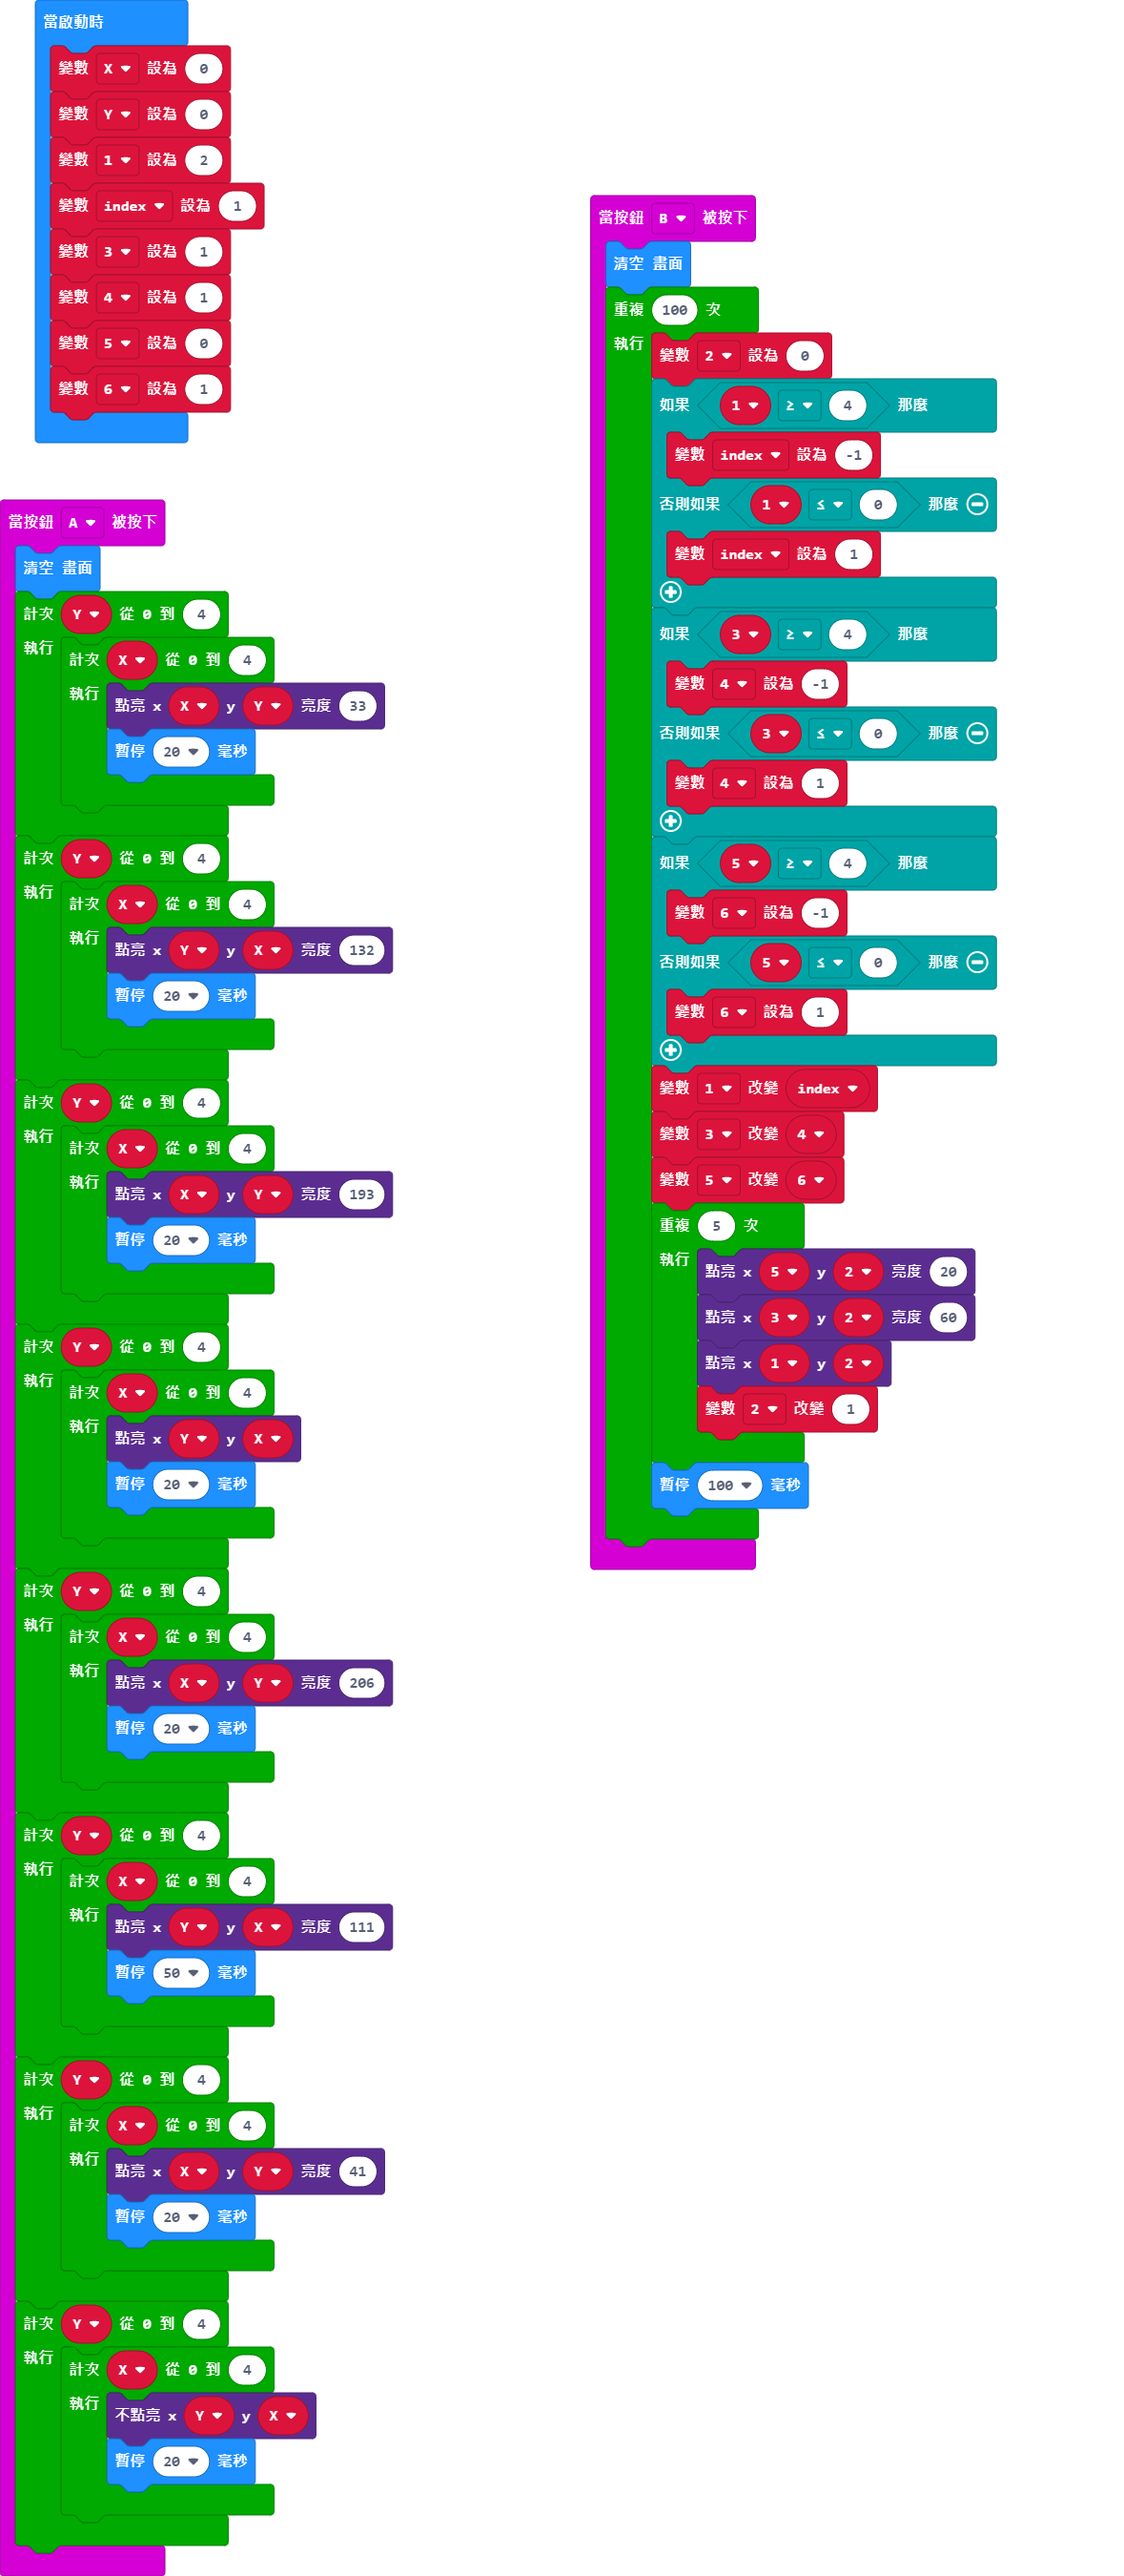
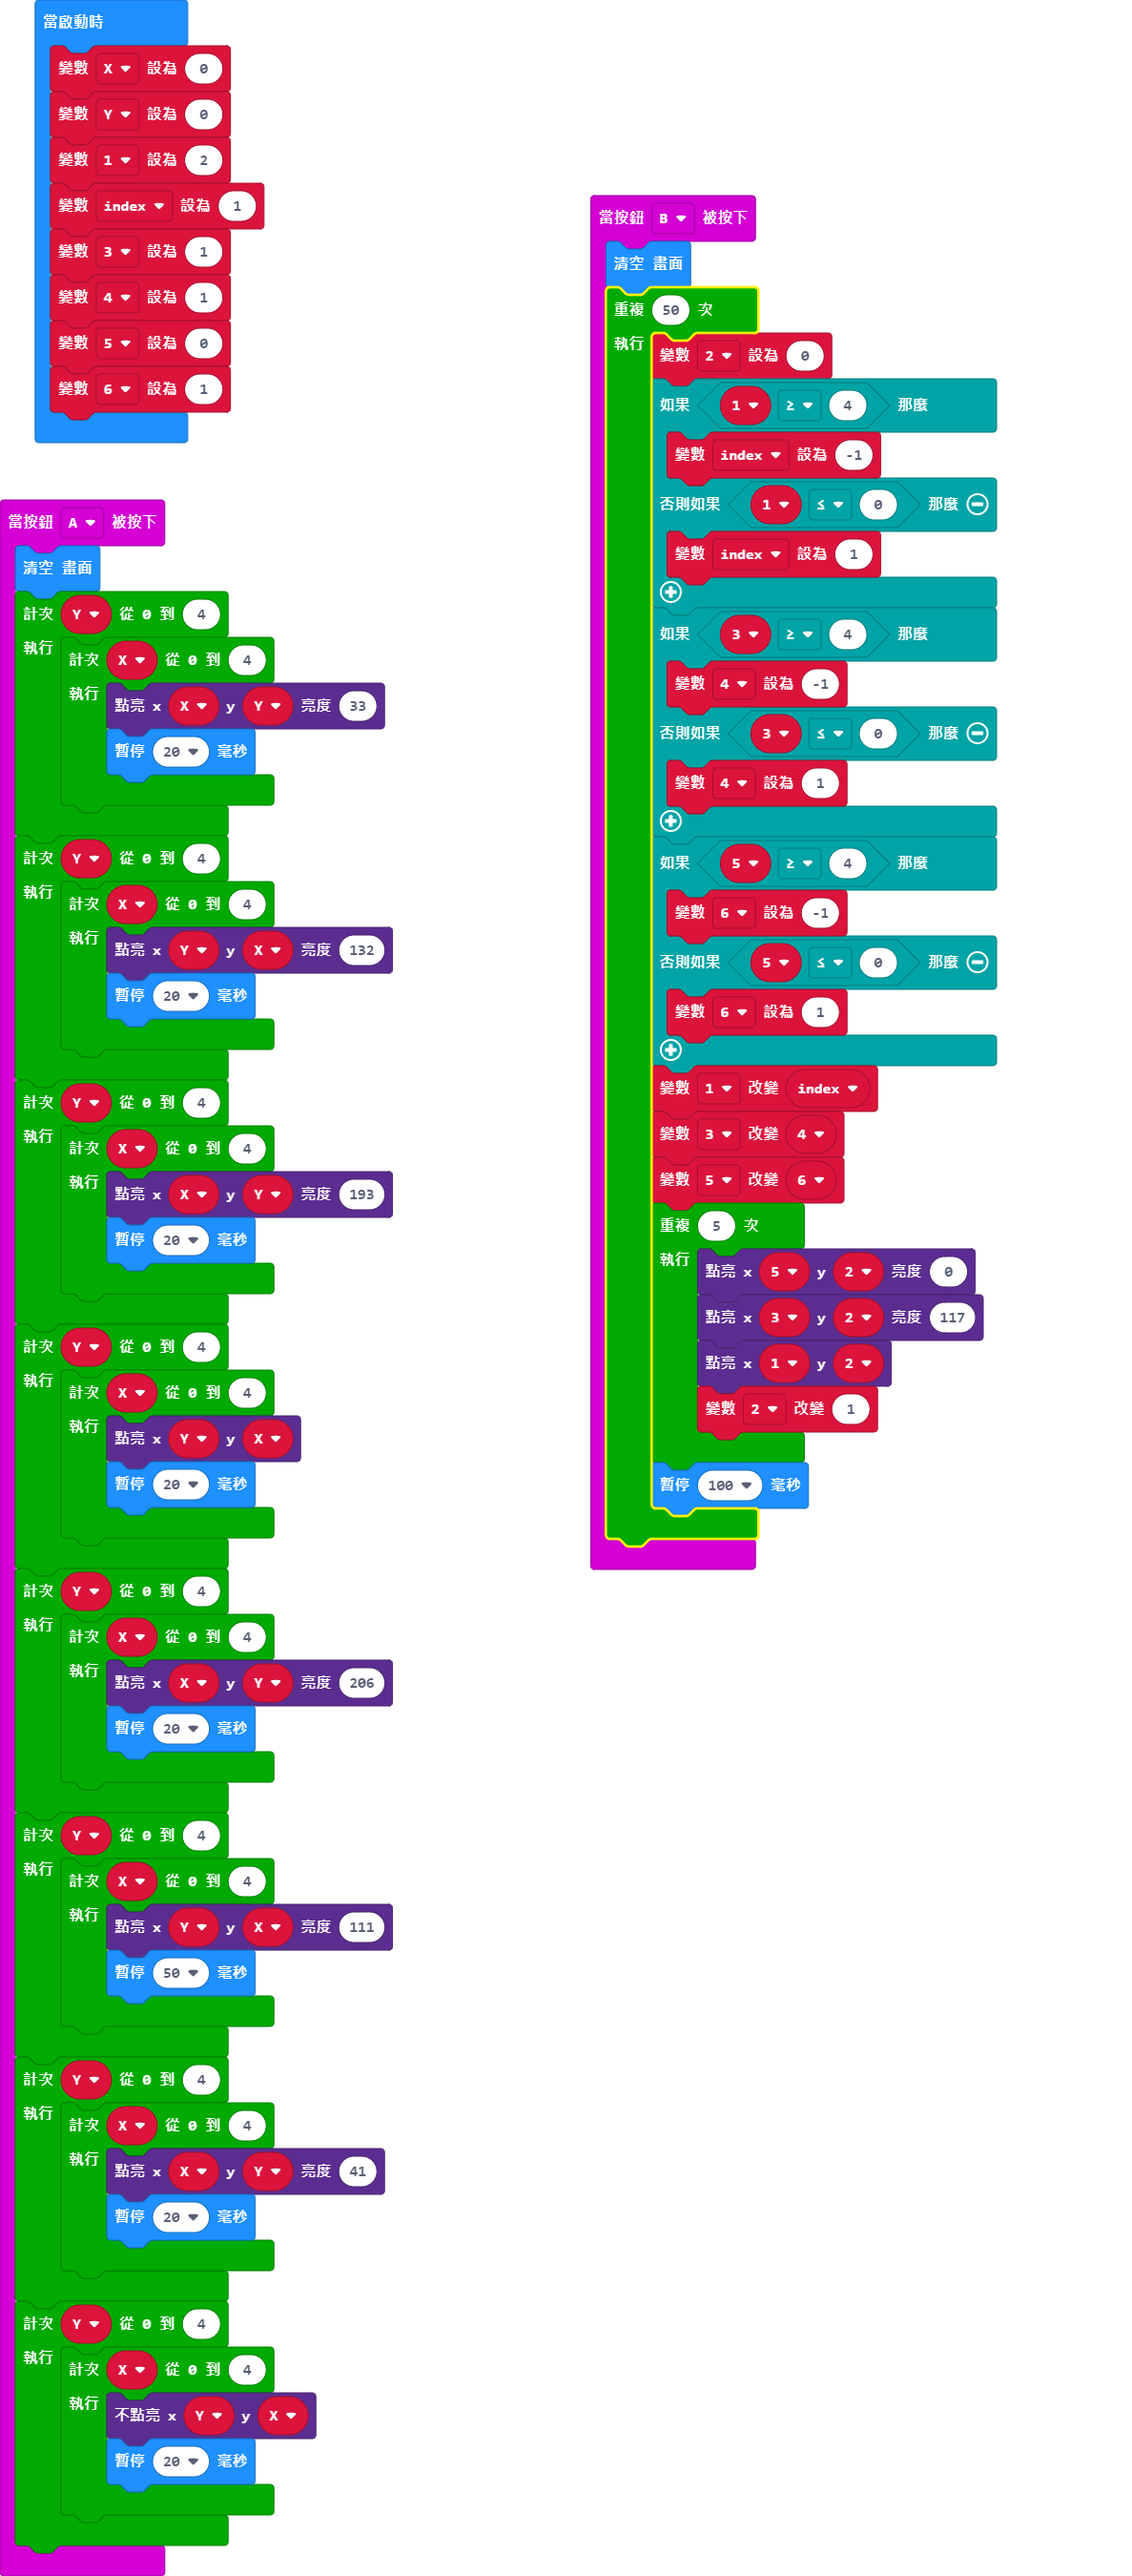
更新 main.blocks, main.ts

diff --git a/main.ts b/main.ts
@@ -51,7 +51,7 @@ input.onButtonPressed(Button.A, function () {
 })
 input.onButtonPressed(Button.B, function () {
     basic.clearScreen()
-    for (let index2 = 0; index2 < 100; index2++) {
+    for (let index2 = 0; index2 < 50; index2++) {
         _2 = 0
         if (_1 >= 4) {
             index = -1
@@ -72,8 +72,8 @@ input.onButtonPressed(Button.B, function () {
         _3 += _4
         _5 += _6
         for (let index2 = 0; index2 < 5; index2++) {
-            led.plotBrightness(_5, _2, 20)
-            led.plotBrightness(_3, _2, 60)
+            led.plotBrightness(_5, _2, 0)
+            led.plotBrightness(_3, _2, 117)
             led.plot(_1, _2)
             _2 += 1
         }
